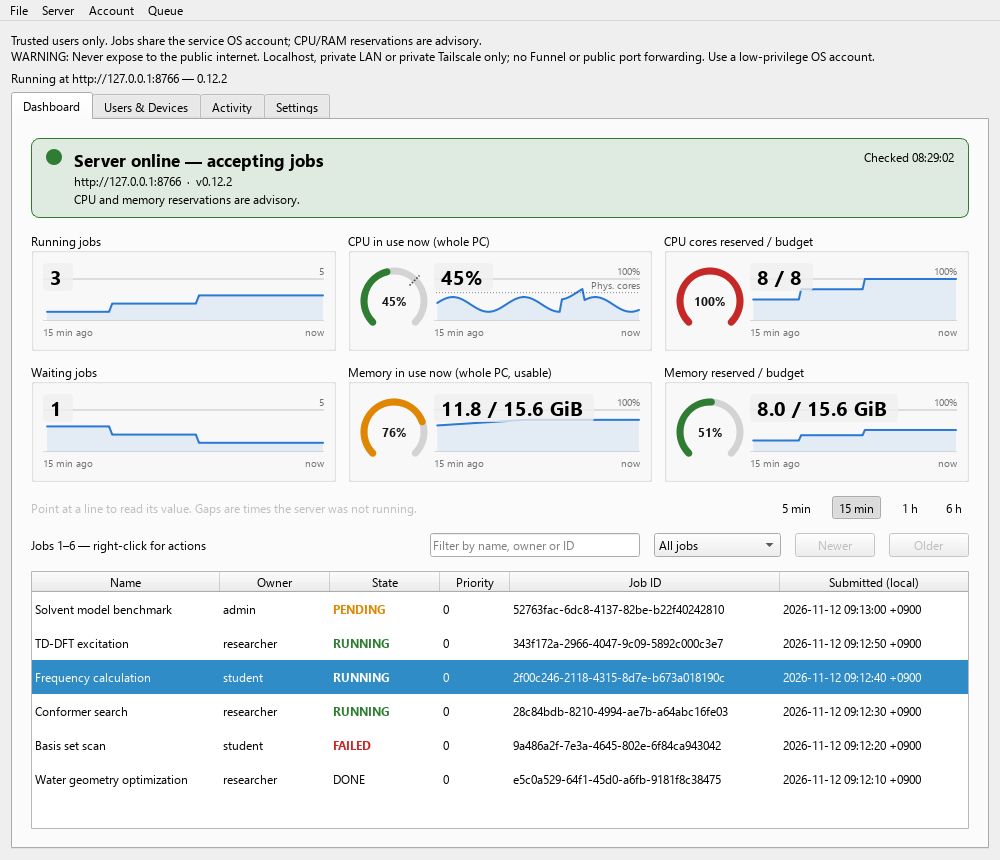
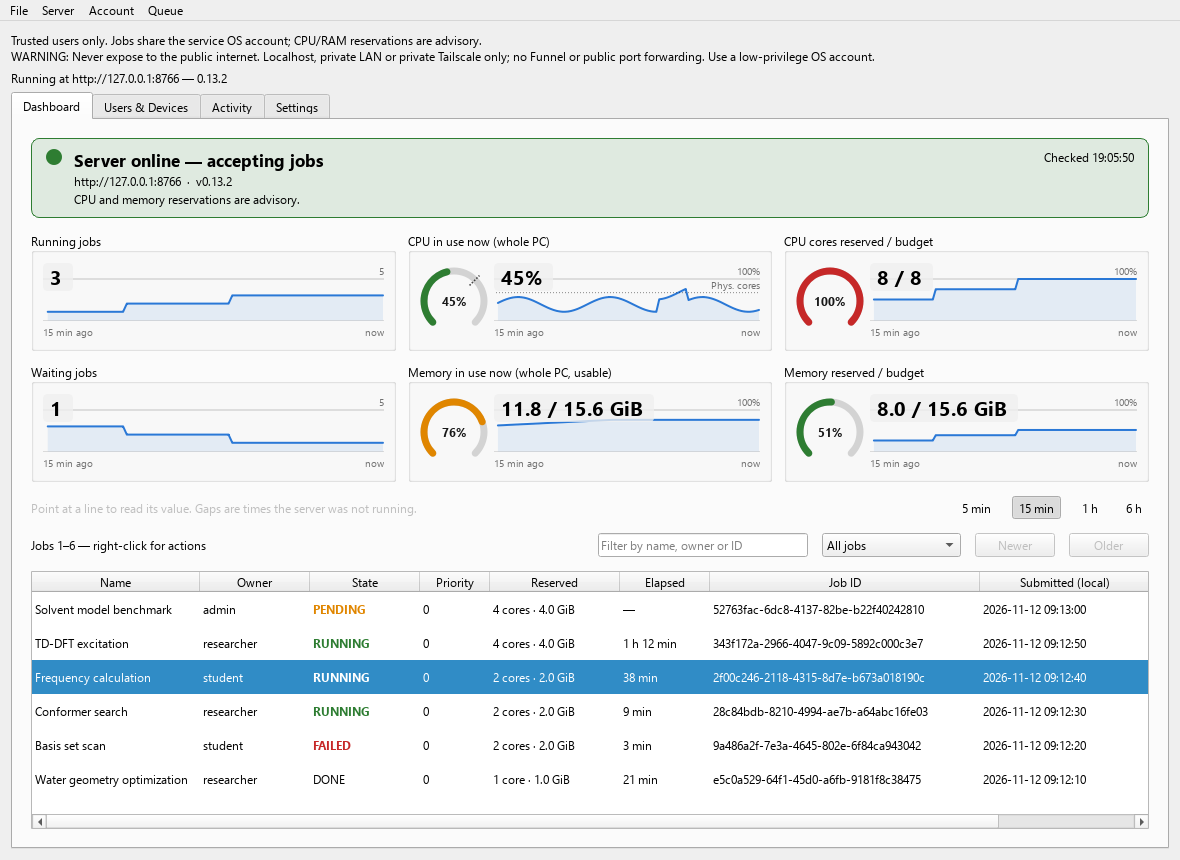
Show each job's reservation and run time in the dashboard; drop the UTC offset
The job list had no budget or time columns: Reserved (cores and GiB) and
Elapsed (whole minutes, so an unchanged row stays unchanged) are added.
Times read "2026-11-12 09:13:00 +0900"; the headers already say local, so
the offset is gone.

diff --git a/job_server/ui/dashboard.py b/job_server/ui/dashboard.py
@@ -109,6 +109,37 @@ STATE_COLORS = {
 
 
 TERMINAL_STATES = {"DONE", "FAILED", "CANCELLED", "CANCELED", "LOST"}
+
+
+def reserved_text(job):
+    """What a job takes from the budget, such as "4 cores · 8.0 GiB"."""
+    resources = (job.get("spec") or {}).get("resources") or {}
+    cores = resources.get("cpus_per_task")
+    if not isinstance(cores, int) or isinstance(cores, bool):
+        return "—"
+    return f"{cores} core{'' if cores == 1 else 's'} · {gb(resources.get('memory_mb'))} GiB"
+
+
+def elapsed_text(job, now):
+    """How long a job has run, or ran; "—" for one that has not started.
+
+    Whole minutes only: a finer clock would change the row at every refresh,
+    and an unchanged table is left alone.
+    """
+    started, ended = job.get("started_at"), job.get("ended_at")
+    if not isinstance(started, (int, float)) or isinstance(started, bool):
+        return "—"
+    end = ended if isinstance(ended, (int, float)) and not isinstance(ended, bool) else now
+    minutes = max(0, int(end - started)) // 60
+    if minutes < 1:
+        return "< 1 min"
+    if minutes < 60:
+        return f"{minutes} min"
+    hours, minutes = divmod(minutes, 60)
+    if hours < 24:
+        return f"{hours} h {minutes:02d} min"
+    days, hours = divmod(hours, 24)
+    return f"{days} d {hours} h"
 JOB_PAGE = 100
 EVENT_LIMIT = 200
 #: The queue filter's choices and the job states each one shows.
@@ -343,14 +374,16 @@ class Dashboard(QDialog):
         self.newer_jobs.setEnabled(False)
         self.older_jobs.setEnabled(False)
         layout.addLayout(filters)
-        self.jobs = QTableWidget(0, 6)
-        self.jobs.setHorizontalHeaderLabels(["Name", "Owner", "State", "Priority", "Job ID", "Submitted (local)"])
+        self.jobs = QTableWidget(0, 8)
+        self.jobs.setHorizontalHeaderLabels(
+            ["Name", "Owner", "State", "Priority", "Reserved", "Elapsed", "Job ID", "Submitted (local)"]
+        )
         self.jobs.setEditTriggers(QTableWidget.EditTrigger.NoEditTriggers)
         self.jobs.setSelectionBehavior(QAbstractItemView.SelectionBehavior.SelectRows)
         self.jobs.setSelectionMode(QAbstractItemView.SelectionMode.SingleSelection)
         self.jobs.verticalHeader().setVisible(False)
         self.jobs.verticalHeader().setDefaultSectionSize(34)
-        self._table_layout(self.jobs, (220, 110, 110, 70, 270, 170))
+        self._table_layout(self.jobs, (220, 110, 110, 70, 130, 90, 270, 170))
         self.jobs.horizontalHeader().setSectionResizeMode(0, QHeaderView.ResizeMode.Stretch)
         self.jobs.setShowGrid(False)
         self.jobs.itemSelectionChanged.connect(self._update_job_actions)
@@ -946,13 +979,15 @@ class Dashboard(QDialog):
             usernames = {u["id"]: u["username"] for u in data["users"]}
             self.usernames = usernames
             self.job_records = {job["id"]: job for job in data["jobs"]}
+            now = time.time()
             self.fill(
                 self.jobs,
                 [
                     (j["spec"]["name"], usernames.get(j["owner_id"], "(deleted user)"),
                      j["display_state"] + (" · force requested" if j.get("force_run") else "")
                      + (" · needs recheck" if self._stuck(j) else ""),
-                     j.get("priority", 0), j["id"], self.timestamp(j.get("created_at")))
+                     j.get("priority", 0), reserved_text(j), elapsed_text(j, now), j["id"],
+                     self.timestamp(j.get("created_at")))
                     for j in data["jobs"]
                 ], identifiers=[j["id"] for j in data["jobs"]],
             )
@@ -1147,7 +1182,7 @@ class Dashboard(QDialog):
         if value is None:
             return "Never"
         try:
-            return datetime.fromtimestamp(value).astimezone().strftime("%Y-%m-%d %H:%M:%S %z")
+            return datetime.fromtimestamp(value).astimezone().strftime("%Y-%m-%d %H:%M:%S")
         except (ValueError, TypeError, OSError, OverflowError):
             return "—"
 

diff --git a/tests/test_dashboard_display.py b/tests/test_dashboard_display.py
@@ -232,13 +232,15 @@ def test_refresh_displays_names_status_and_local_access_time(dashboard, monkeypa
     dashboard.jobs.setCurrentCell(0, 0)
     assert dashboard.selected(dashboard.jobs) == "job-id"
     assert dashboard.jobs.item(0, 0).text() == "test"
+    assert dashboard.jobs.item(0, 4).text() == "—"  # This reply carries no resources.
+    assert dashboard.jobs.item(0, 6).text() == "job-id"
     assert dashboard.users.item(0, 0).text() == "alice"
     assert dashboard.users.item(0, 2).text() == "Enabled"
     assert dashboard.devices.item(0, 1).text() == "alice"
     assert dashboard.devices.item(0, 2).text() == "Active"
     assert dashboard.devices.item(0, 3).text() == datetime.fromtimestamp(
         timestamp
-    ).astimezone().strftime("%Y-%m-%d %H:%M:%S %z")
+    ).astimezone().strftime("%Y-%m-%d %H:%M:%S")
     assert dashboard.timestamp(None) == "Never"
     replies["/admin/users"][0]["enabled"] = 0
     replies["/admin/devices"][0]["revoked_at"] = timestamp
@@ -734,3 +736,27 @@ def test_right_click_holds_releases_and_changes_a_waiting_job_reservation(dashbo
         ("POST", "/jobs/job-id/hold", {"held": True}),
         ("POST", "/jobs/job-id/hold", {"held": False}),
     ]
+
+
+def test_reserved_and_elapsed_columns_read_plainly():
+    from job_server.ui.dashboard import elapsed_text, reserved_text
+
+    spec = {"spec": {"resources": {"cpus_per_task": 4, "memory_mb": 8192}}}
+    assert reserved_text(spec) == "4 cores · 8.0 GiB"
+    assert reserved_text({"spec": {"resources": {"cpus_per_task": 1, "memory_mb": 0}}}) == "1 core · 0.0 GiB"
+    assert reserved_text({}) == "—"
+    now = 1_000_000.0
+    assert elapsed_text({"started_at": None}, now) == "—"
+    assert elapsed_text({"started_at": now - 30}, now) == "< 1 min"
+    assert elapsed_text({"started_at": now - 12 * 60 - 59}, now) == "12 min"
+    assert elapsed_text({"started_at": now - 3 * 3600 - 5 * 60}, now) == "3 h 05 min"
+    assert elapsed_text({"started_at": now - 50 * 3600}, now) == "2 d 2 h"
+    # A finished job keeps its run time instead of growing.
+    assert elapsed_text({"started_at": now - 7200, "ended_at": now - 3600}, now) == "1 h 00 min"
+
+
+def test_times_carry_no_utc_offset():
+    from job_server.ui.dashboard import Dashboard
+
+    assert "+" not in Dashboard.timestamp(1_800_000_000) and len(Dashboard.timestamp(1_800_000_000)) == 19
+

diff --git a/job_server/__init__.py b/job_server/__init__.py
@@ -1,7 +1,7 @@
 """MoleditPy Job Server: loading the plugin never starts a listener."""
 
 PLUGIN_NAME = "Job Server"
-PLUGIN_VERSION = "0.13.1"
+PLUGIN_VERSION = "0.13.2"
 PLUGIN_AUTHOR = "HiroYokoyama"
 PLUGIN_LICENSE = "LGPL-3.0-or-later"
 PLUGIN_DESCRIPTION = "Authenticated shared job queue and headless server for trusted users."

diff --git a/README.md b/README.md
@@ -66,7 +66,7 @@ Right-click a job, user or device for its actions. The same actions are in the m
 
 | Tab | Use it to |
 |---|---|
-| **Dashboard** | See server state, live CPU and memory, reservations and jobs. The job list opens on running and waiting jobs; choose **All jobs** or another filter to see finished and failed ones. Each figure has a dial and a trend line; switch the lines between the last 5 minutes, 15 minutes, 1 hour and 6 hours at the bottom right, and point at a line to read its value. The thin line above each plot is the top of the scale, named at its right end (100%, or for job counts a round number just above the largest shown). A gap in a line is time the server was not running. Memory is shown in GiB (1024-based) of the memory the OS can use, so it reads a little lower than the size on the box. Filter jobs, open details, set priority, force run, cancel or open the job folder. The lists refresh every few seconds without moving your selection or scroll position. |
+| **Dashboard** | See server state, live CPU and memory, reservations and jobs. The job list shows each job's reserved cores and memory and how long it has run, and opens on running and waiting jobs; choose **All jobs** or another filter to see finished and failed ones. Each figure has a dial and a trend line; switch the lines between the last 5 minutes, 15 minutes, 1 hour and 6 hours at the bottom right, and point at a line to read its value. The thin line above each plot is the top of the scale, named at its right end (100%, or for job counts a round number just above the largest shown). A gap in a line is time the server was not running. Memory is shown in GiB (1024-based) of the memory the OS can use, so it reads a little lower than the size on the box. Filter jobs, open details, set priority, force run, cancel or open the job folder. The lists refresh every few seconds without moving your selection or scroll position. |
 | **Users & Devices** | Add users or administrators, reset passwords, enable, disable or delete users, switch user and administrator, and revoke devices. Change your own password. |
 | **Activity** | Read recent logins, account changes and job events. |
 | **Settings** | Set the network, budgets, commands run before each job, the job folder and the runtime. When a save changes something while the server runs, the window offers the restart that applies it. |
